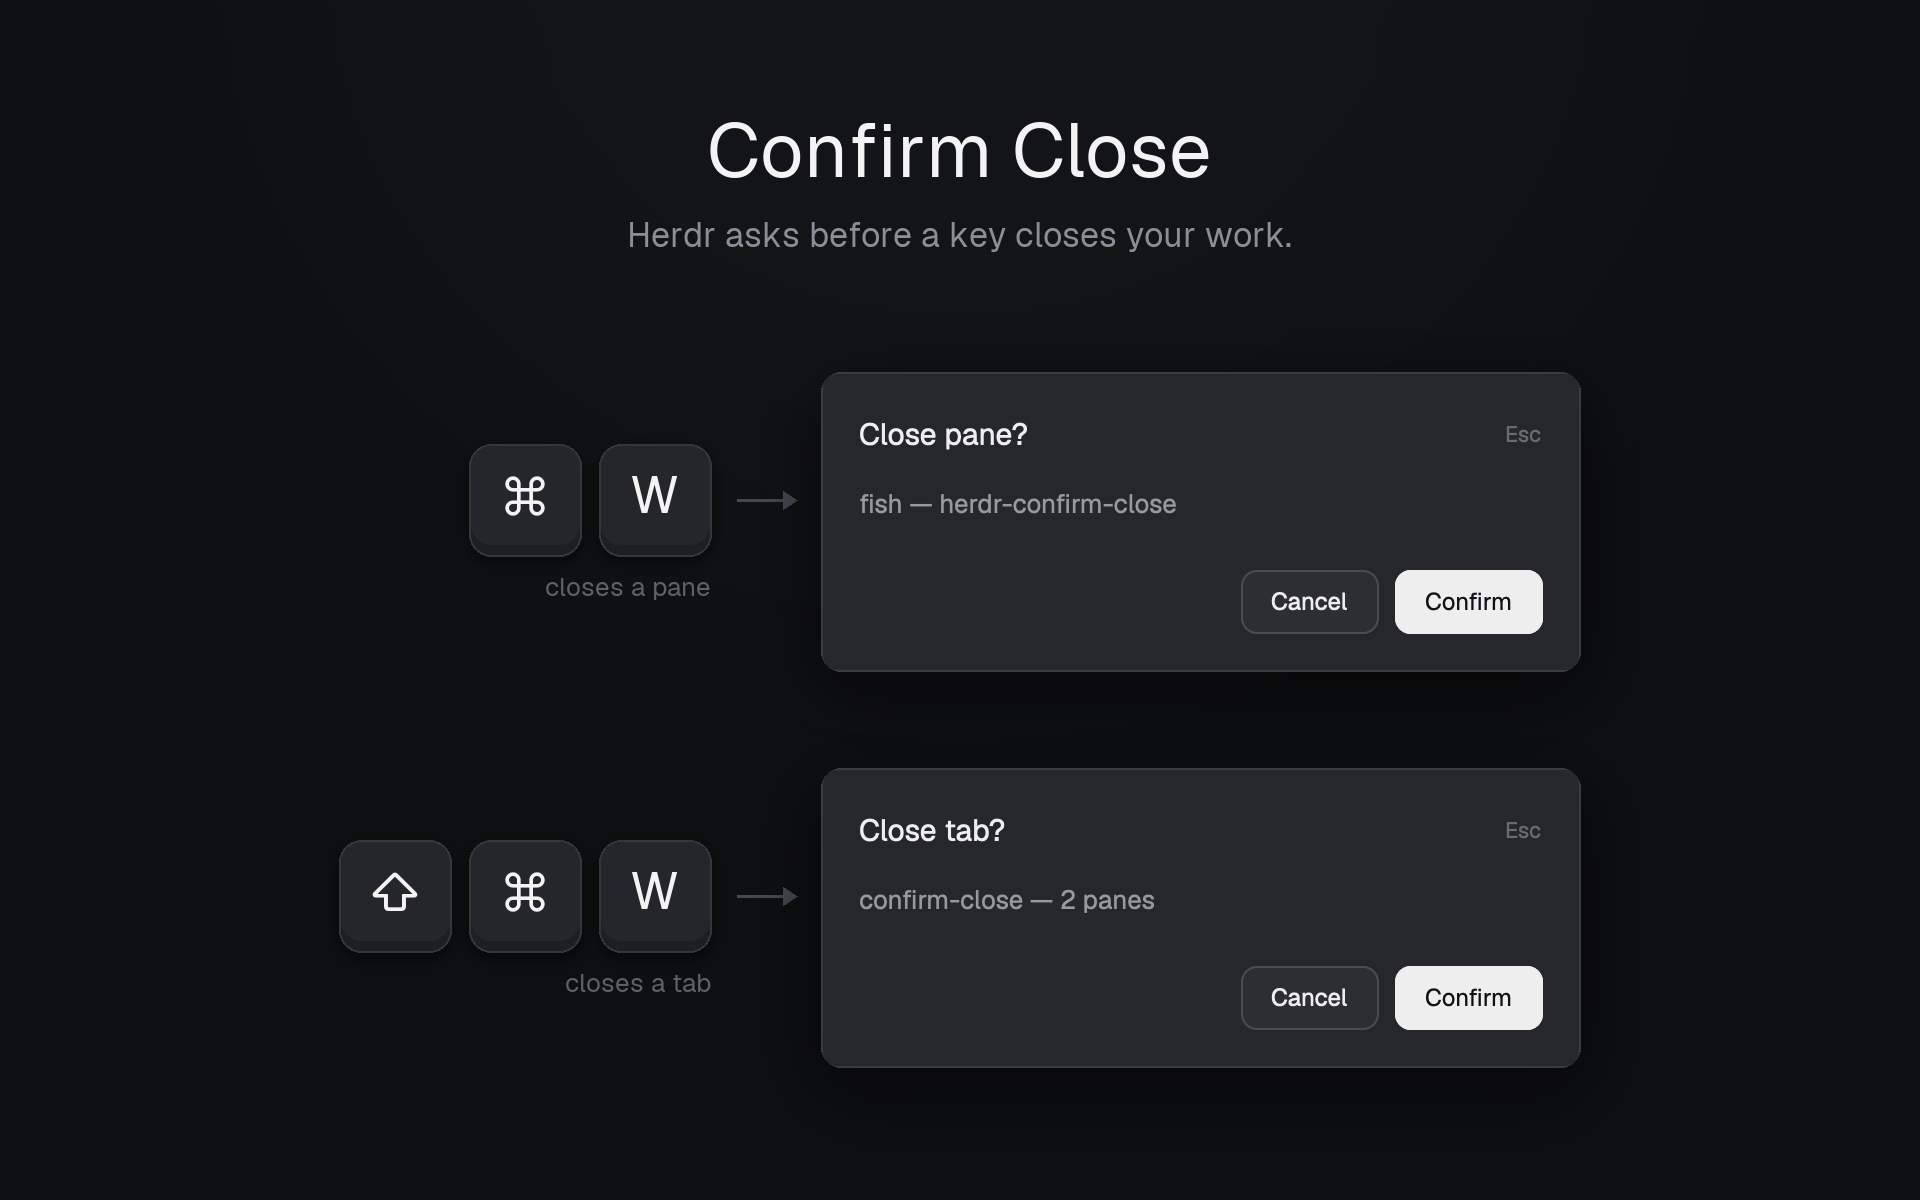
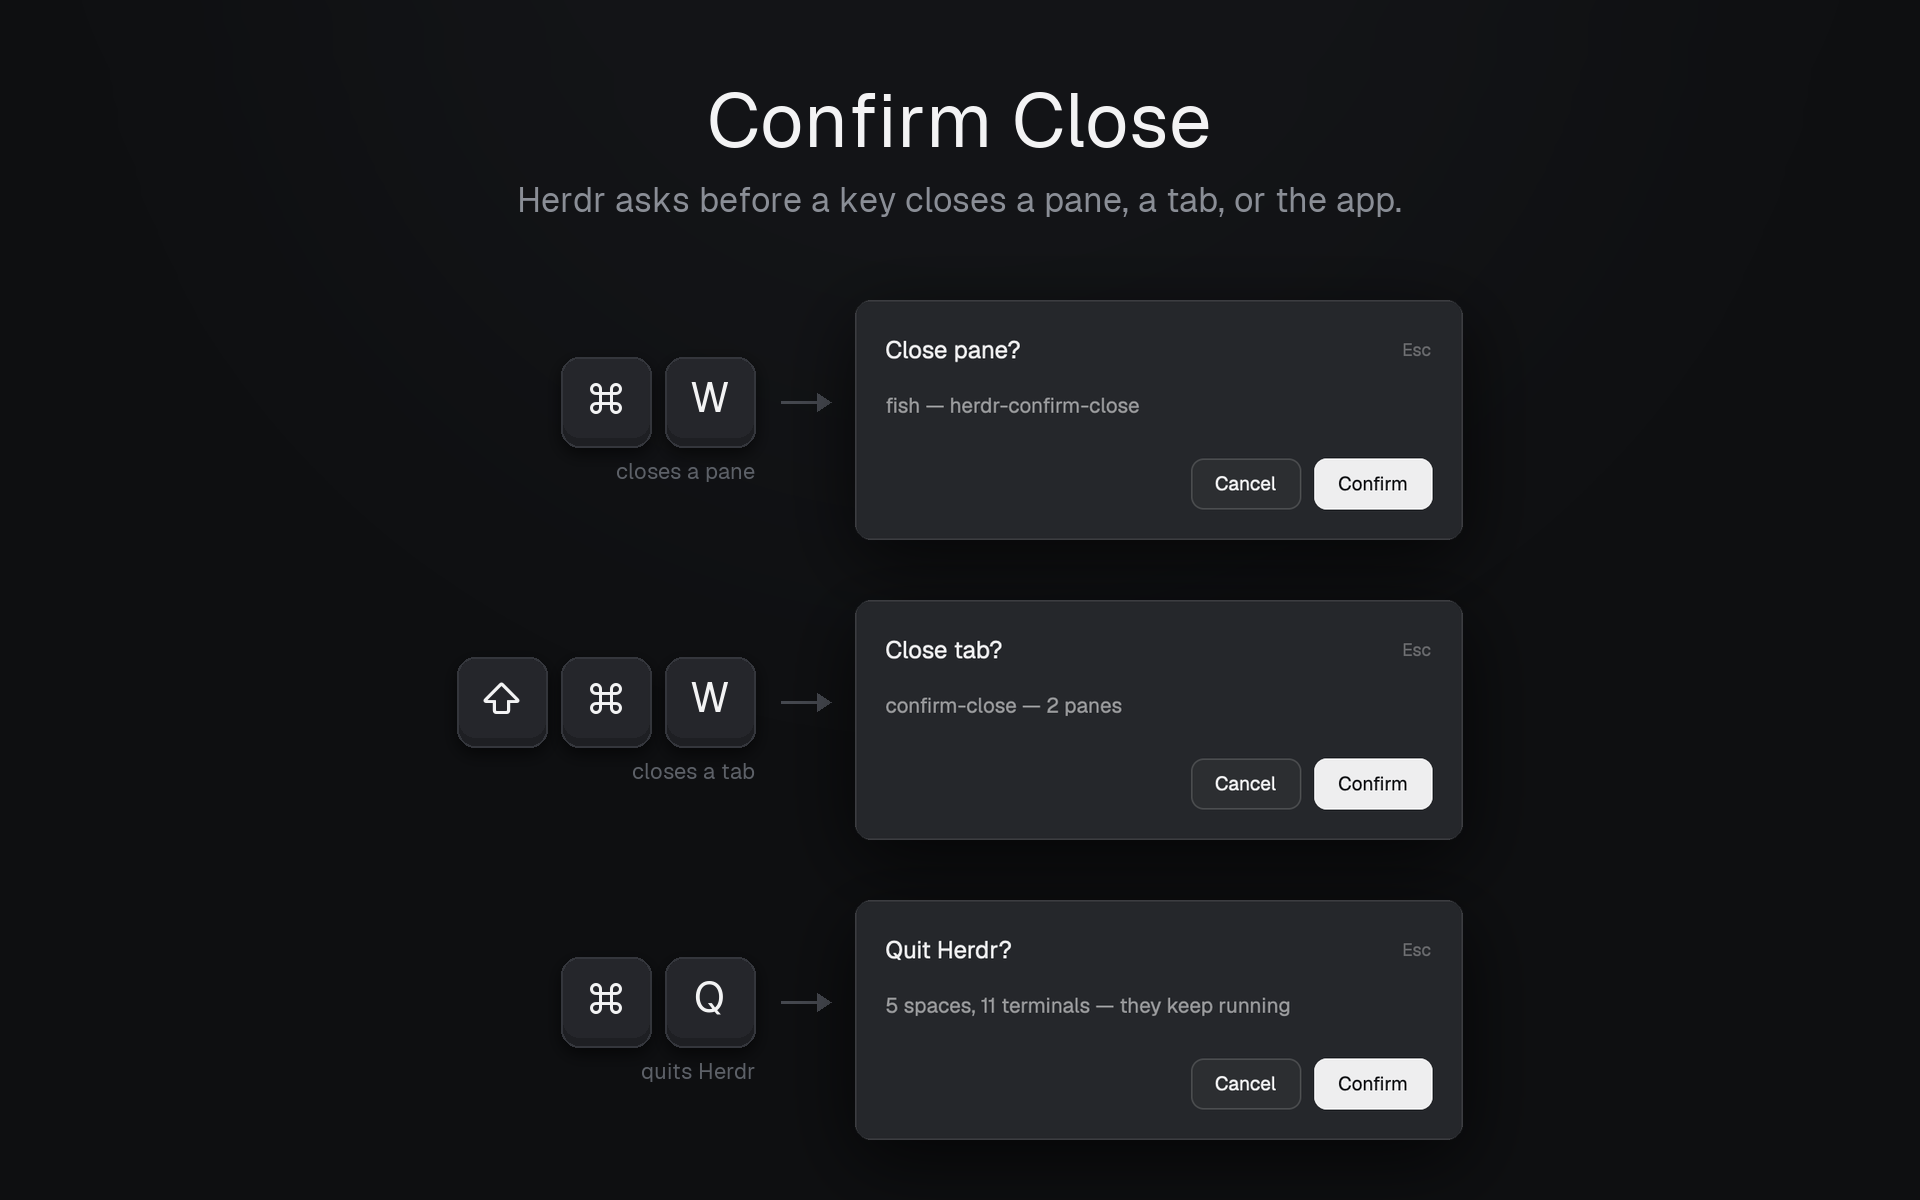
feat: ask before cmd-q quits Herdr
cmd-q sits right next to cmd-w, and Herdr quits without asking, so one
slip closes the window. Add an ask-quit mod bound to cmd-q. It reuses
Herdr's shipped confirm dialog, "Quit Herdr?", and says the terminals
keep running, since quitting doesn't end them.

Add cmd-q to the READMEs, RECIPE.md and keys.json. The preview gets a
third row for ⌘Q, and its subtitle now reads "closes a pane, a tab, or
the app": "closes your work" wasn't true of quitting.

Changed region(s): [[0.1562, 0.2775, 0.8438, 0.9558], [0.2812, 0.0617, 0.7188, 0.2158], [0.3125, 0.3083, 0.375, 0.3392]]

diff --git a/mods/ask-quit/main.js b/mods/ask-quit/main.js
@@ -1,0 +1,20 @@
+// cmd-q: ask before quitting, via the shipped confirm dialog.
+import { View, div } from "gpui-kit";
+import { panes, spaces, props, openOverlay, closeOverlay } from "herdr";
+
+export default class AskQuit extends View {
+  init() {
+    const own = props()?.overlay;
+    if (own) closeOverlay(own);
+    // Quitting only closes the window: the terminals and their agents keep running, so say so.
+    openOverlay({
+      mod: "confirm", kind: "dialog", width: 380, height: 150,
+      props: {
+        title: "Quit Herdr?",
+        detail: `${spaces().length} spaces, ${panes().filter((p) => p.terminal).length} terminals — they keep running`,
+        command: { name: "app.quit", args: {} },
+      },
+    });
+  }
+  render() { return div(); }
+}

diff --git a/RECIPE.md b/RECIPE.md
@@ -1,22 +1,25 @@
 # Confirm Close
 
-A confirm dialog before cmd-w closes a pane or cmd-shift-w closes a tab. Enter to close, Esc to cancel.
+A confirm dialog before cmd-w closes a pane, cmd-shift-w closes a tab or cmd-q quits Herdr. Enter to go ahead, Esc to cancel.
 
 ![Confirm Close](preview.png)
 
 ## Ask about the keys first
 
-`keys.json` swaps Herdr's defaults:
+`keys.json` swaps Herdr's defaults for the two close keys:
 
 | Key | Herdr default | This mod |
 | --- | --- | --- |
 | `cmd-w` | close tab | confirm, then close pane |
 | `cmd-shift-w` | close pane | confirm, then close tab |
+| `cmd-q` | quit | confirm, then quit |
 
 Ask the person which they want:
 
 - Swapped keys: merge `keys.json` as is.
-- Dialog only: `"cmd-w": "mod.open:ask-close-tab"`, `"cmd-shift-w": "mod.open:ask-close-pane"`.
+- Dialog only: `"cmd-w": "mod.open:ask-close-tab"`, `"cmd-shift-w": "mod.open:ask-close-pane"`, `"cmd-q": "mod.open:ask-quit"`.
+
+`cmd-q` is the same in both.
 
 ## The dialog
 
@@ -30,14 +33,15 @@ openOverlay({ mod: "confirm", kind: "dialog", width: 380, height: 150,
 - **Close pane?** `<name> — <folder>`, e.g. `fish — herdr-confirm-close`. Name: the program's name for a shell or an agent, else the terminal's title, else the program's name, else `pane`. Folder: last part of `cwd`, dropped if none.
 - **Close tab?** `<tab name> — <N> panes`.
 - **Close space?** Instead of either, when the pane is the space's only pane or the tab its only tab: `<space name> — 1 tabs, <N> terminals`, as Herdr writes it. Confirm runs `space.close { id, confirmed: true }`.
+- **Quit Herdr?** `<N> spaces, <N> terminals — they keep running`. Quitting only closes the window; terminals and their agents keep running, so the dialog says so. Confirm runs `app.quit`.
 
-It closes what was focused when the key was pressed. Nothing focused: no dialog.
+It closes what was focused when the key was pressed. Nothing focused: no pane or tab dialog.
 
 ## Files
 
-- `mods/ask-close-pane/`, `mods/ask-close-tab/`: `main.js` and `mod.json` = `{ "place": "none", "overlay": { "kind": "dialog", "width": 1, "height": 1 } }`.
-- Each `init` closes its own overlay, reads `focused()` with `panes()` or `spaces()[].tabs`, and opens `confirm` with `pane.close { pane }` or `tab.close { id }`. `render` returns `div()`.
-- `keys.json`: `global` → `"cmd-w": "mod.open:ask-close-pane"`, `"cmd-shift-w": "mod.open:ask-close-tab"`.
+- `mods/ask-close-pane/`, `mods/ask-close-tab/`, `mods/ask-quit/`: `main.js` and `mod.json` = `{ "place": "none", "overlay": { "kind": "dialog", "width": 1, "height": 1 } }`.
+- Each `init` closes its own overlay, reads what it needs (`focused()`, `panes()`, `spaces()`), and opens `confirm` with `pane.close { pane }`, `tab.close { id }` or `app.quit`. `render` returns `div()`.
+- `keys.json`: `global` → `"cmd-w": "mod.open:ask-close-pane"`, `"cmd-shift-w": "mod.open:ask-close-tab"`, `"cmd-q": "mod.open:ask-quit"`.
 
 ## Gotchas
 
@@ -45,14 +49,15 @@ It closes what was focused when the key was pressed. Nothing focused: no dialog.
 - `mod.open` takes no arguments, so one mod per key.
 - Fish sets the title to the folder; use the program's name for shells.
 - A second line of detail scrolls at 150px. Keep it to one.
-- The `×` buttons and the command palette don't ask.
+- The `×` buttons and the command palette don't ask. Nor does Quit from the menu bar or the Dock: only the key goes through `keys.json`.
 - Herdr won't close a space's last pane with `pane.close`, and `tab.close` on its last tab asks "Close space?" again. Ask "Close space?" once instead.
 - Herdr stops adding new default keys to an edited `keys.json`.
 
 ## Done when
 
-- `herdr-app check` passes for both folders.
+- `herdr-app check` passes for all three folders.
 - On a fish pane: "Close pane?", `fish — <folder>` on one line. Esc keeps it, Enter closes it.
 - "Close tab?", `<tab> — <N> panes`. Confirm closes the tab.
 - On a space's only pane or only tab, both keys ask "Close space?" once; Confirm closes the space.
+- cmd-q: "Quit Herdr?", `<N> spaces, <N> terminals — they keep running`. Esc keeps Herdr open.
 - Same size and style as Herdr's "Close space?".

diff --git a/README.zh-CN.md b/README.zh-CN.md
@@ -2,11 +2,13 @@
 
 [English](README.md) · 中文
 
-这个 mod 让 Herdr 先问一句，用快捷键关 pane 或 tab 之前，先弹一个确认框。Enter 关闭，Esc 取消。
+这个 mod 让 Herdr 先问一句：用快捷键关 pane、关 tab 或退出 Herdr 之前，先弹一个确认框。Enter 继续，Esc 取消。
 
 ![Confirm Close](preview.png)
 
 Herdr 按下快捷键会直接关 pane 和 tab，只有在关 space 的最后一个 tab 时才会问。要是手滑按一下 cmd-w，正在跑的 agent 就没了。
+
+cmd-q 就在 cmd-w 旁边，Herdr 退出时也不问。退出后终端还在跑，但窗口没了，手上的事被打断。确认框会把这点写明：`5 spaces, 9 terminals — they keep running`。
 
 ## 快捷键是对调的
 
@@ -14,8 +16,9 @@ Herdr 按下快捷键会直接关 pane 和 tab，只有在关 space 的最后一
 | --- | --- | --- |
 | `cmd-w` | 关 tab | 确认后关 pane |
 | `cmd-shift-w` | 关 pane | 确认后关 tab |
+| `cmd-q` | 退出 | 确认后退出 |
 
-`cmd-w` 关 pane 是多数终端的习惯。想保留 Herdr 原来的键位，就只装确认框（见下）。
+`cmd-w` 关 pane 是多数终端的习惯。想保留 Herdr 原来的键位，就只装确认框（见下）。`cmd-q` 两种装法都一样。
 
 ## 安装
 
@@ -29,23 +32,24 @@ Read ~/.config/herdr-app/AGENTS.md, then add this mod: https://github.com/Harike
 
 手动安装：
 
-1. 把 `mods/ask-close-pane` 和 `mods/ask-close-tab` 复制到 `~/.config/herdr-app/mods/`。
-2. 在 `~/.config/herdr-app/keys.json` 的 `global` 里加上其中一组：
+1. 把 `mods/ask-close-pane`、`mods/ask-close-tab` 和 `mods/ask-quit` 复制到 `~/.config/herdr-app/mods/`。
+2. 在 `~/.config/herdr-app/keys.json` 的 `global` 里设 `"cmd-q": "mod.open:ask-quit"`，再加上其中一组：
    - 对调键位（跟本仓库的 `keys.json` 一样）：`"cmd-w": "mod.open:ask-close-pane"`、`"cmd-shift-w": "mod.open:ask-close-tab"`
    - 只要确认框：`"cmd-w": "mod.open:ask-close-tab"`、`"cmd-shift-w": "mod.open:ask-close-pane"`
-3. 对两个文件夹分别跑一次 `herdr-app check`。
+3. 对三个文件夹分别跑一次 `herdr-app check`。
 
 改过 `keys.json` 之后，Herdr 升级时不会再往里加新的默认快捷键。
 
 ## 已知限制
 
 - 点 tab 或 pane 标题栏上的 `×`、在命令面板里执行关闭，不会弹确认框。
+- 从菜单栏或 Dock 退出不会弹确认框，只有快捷键会问。
 - 关 space 里最后一个 pane 或 tab 时，问的是 "Close space?"，因为关掉它就是关掉整个 space。
 
 ## 它会做什么
 
-只读取当前聚焦的 pane 或 tab，你确认后执行 `pane.close` 或 `tab.close`。
+只读取当前聚焦的 pane 或 tab，数一下 space 和终端的个数，你确认后执行 `pane.close`、`tab.close` 或 `app.quit`。
 
 ## 卸载
 
-删掉两个文件夹，把快捷键改回去：`"cmd-w": "tab.close"`、`"cmd-shift-w": "pane.close"`。
+删掉三个文件夹，把快捷键改回去：`"cmd-w": "tab.close"`、`"cmd-shift-w": "pane.close"`、`"cmd-q": "app.quit"`。

diff --git a/README.md b/README.md
@@ -2,11 +2,13 @@
 
 English · [中文](README.zh-CN.md)
 
-Makes Herdr ask first: a confirm dialog before a key closes a pane or a tab. Enter to close, Esc to cancel.
+Makes Herdr ask first: a confirm dialog before a key closes a pane, closes a tab or quits Herdr. Enter to go ahead, Esc to cancel.
 
 ![Confirm Close](preview.png)
 
 Herdr closes panes and tabs the moment you press the key, and only asks on a space's last tab. One stray cmd-w and your running agent is gone.
+
+cmd-q sits right next to cmd-w, and Herdr quits without asking. Your terminals keep running after a quit, but the window is gone mid-task. The dialog says so: `5 spaces, 9 terminals — they keep running`.
 
 ## The keys are swapped
 
@@ -14,8 +16,9 @@ Herdr closes panes and tabs the moment you press the key, and only asks on a spa
 | --- | --- | --- |
 | `cmd-w` | close tab | confirm, then close pane |
 | `cmd-shift-w` | close pane | confirm, then close tab |
+| `cmd-q` | quit | confirm, then quit |
 
-`cmd-w` closing the pane is what most terminals do. To keep Herdr's keys, install the dialog only (below).
+`cmd-w` closing the pane is what most terminals do. To keep Herdr's keys, install the dialog only (below). `cmd-q` is the same either way.
 
 ## Install
 
@@ -29,23 +32,24 @@ It will ask whether you want the swapped keys or the dialog only.
 
 By hand:
 
-1. Copy `mods/ask-close-pane` and `mods/ask-close-tab` into `~/.config/herdr-app/mods/`.
-2. In the `global` section of `~/.config/herdr-app/keys.json`, add one of:
+1. Copy `mods/ask-close-pane`, `mods/ask-close-tab` and `mods/ask-quit` into `~/.config/herdr-app/mods/`.
+2. In the `global` section of `~/.config/herdr-app/keys.json`, set `"cmd-q": "mod.open:ask-quit"`, and add one of:
    - swapped keys (same as this repo's `keys.json`): `"cmd-w": "mod.open:ask-close-pane"`, `"cmd-shift-w": "mod.open:ask-close-tab"`
    - dialog only: `"cmd-w": "mod.open:ask-close-tab"`, `"cmd-shift-w": "mod.open:ask-close-pane"`
-3. Run `herdr-app check` on both folders.
+3. Run `herdr-app check` on all three folders.
 
 Once you edit `keys.json`, Herdr stops adding new default keys to it on upgrade.
 
 ## Limits
 
 - Clicking `×` on a tab or pane header, or closing from the command palette, shows no dialog.
+- Quitting from the menu bar or the Dock shows no dialog. Only the key asks.
 - Closing a space's last pane or last tab asks "Close space?", since that closes the whole space.
 
 ## What it does
 
-It only reads the focused pane or tab, and runs `pane.close` or `tab.close` after you confirm.
+It only reads the focused pane or tab and counts spaces and terminals, then runs `pane.close`, `tab.close` or `app.quit` after you confirm.
 
 ## Uninstall
 
-Delete the two folders and set the keys back: `"cmd-w": "tab.close"`, `"cmd-shift-w": "pane.close"`.
+Delete the three folders and set the keys back: `"cmd-w": "tab.close"`, `"cmd-shift-w": "pane.close"`, `"cmd-q": "app.quit"`.
